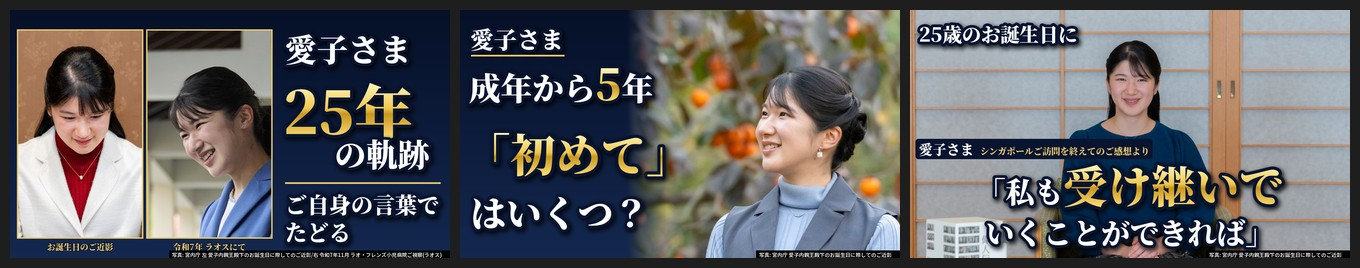
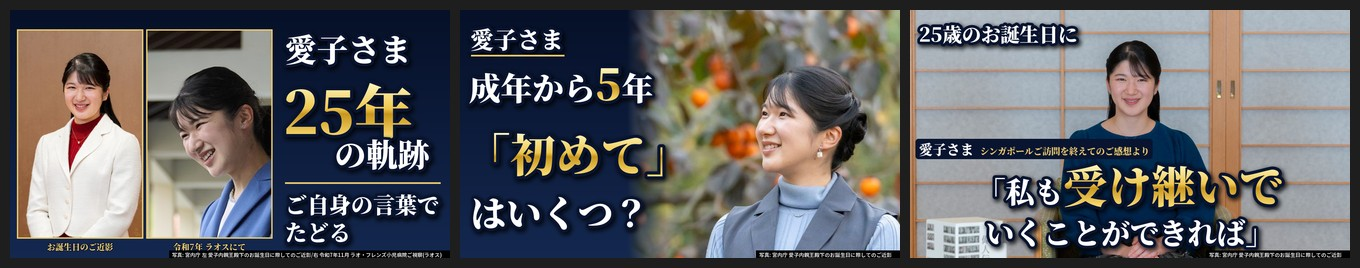
長尺 表紙A 左の写真を正面向きに差し替え
Claude-Session: https://claude.ai/code/session_01BJaPieHBuTRAAQkfULpzEX

Changed region(s): [[0.0, 0.1791, 0.1235, 0.8955]]

diff --git a/projects/KB-20261126-01/thumb/make_thumbs.py b/projects/KB-20261126-01/thumb/make_thumbs.py
@@ -6,9 +6,9 @@ python3 projects/KB-20261126-01/thumb/make_thumbs.py で thumb_A.png・thumb_B.p
 過去の全 thumb.yaml(projects/*)と直近の本編(projects/KB-202611*/scenes.json)を取得元URLで照合し、4枚とも
 表紙0回・本編0回(この長尺の本編でも0回)。皇族方以外の方は切り抜きで外す。献花・慰霊・被災地の写真は使わない。
   A102 令和7年11月 ラオ・フレンズ小児病院ご視察(ラオス。初めての外国公式訪問)。長辺1000px・撮影者表記なし
-  A168/A169/A170 「愛子内親王殿下のお誕生日に際してのご近影」(長辺1800px・撮影者表記なし。年の裏付けがないため年は表示しない=事実確認 M6)
+  A178/A169/A170 「愛子内親王殿下のお誕生日に際してのご近影」(A178 は長辺1000px、A169・A170 は長辺1800px・撮影者表記なし。年の裏付けがないため年は表示しない=事実確認 M6)
 3枚で写真・構図・人物の左右・タイトルの位置を変えた(荒木指示 2026-11-25)。そろえるのは明朝の極太・金の文字・配色(赤なし)・クレジットの置き方だけ。
-  A(題名A 25年の軌跡)= 縦長の写真2枚を額のように左に並べる(左 A168 ご近影・右 A102 ラオス)/文字は右。2か所・20字
+  A(題名A 25年の軌跡)= 縦長の写真2枚を額のように左に並べる(左 A178 ご近影・右 A102 ラオス)/文字は右。2か所・20字
   B(題名B 本命)      = 写真1枚・寄り・人物は右(A169 屋外の柿の木の前・左を向いてほほえまれる)/文字は左。2か所・20字
   C(題名C お言葉)    = 写真1枚いっぱい・引き・人物は中央(A170 御所の障子の前・穏やかな笑顔)/文字は下(引用)と左上。2か所・23字
 """
@@ -65,10 +65,11 @@ def make_A(out):
     CW, CH, Y0 = 360, 600, 60
     X1, X2 = 24, 24 + CW + 16
     im = grad(W, H, [(0, (6, 16, 40)), (1, (20, 40, 80))])
-    # 左の額: A168 ご近影(1800×1200)。お顔(手で測った元の写真のpx)x約775〜1005・y約300〜560。scale 0.75(縮小)
-    b1 = (650, 40, 1130, 840)
-    p1, s1 = card(A + "A168.jpg", b1, (CW, CH))
-    f1 = (X1 + (775 - b1[0]) * s1, Y0 + (300 - b1[1]) * s1, 230 * s1, 260 * s1)
+    # 左の額: A178 ご近影(667×1000・正面を向いた穏やかな笑顔。2026-11-26 荒木指示で下を向いた A168 から差し替え)。
+    # お顔(元の写真のpx・OpenCV の顔検出)x240〜399・y197〜356。切り抜き x100〜544・y50〜790(縦横比 0.6)。scale 約0.81(縮小)
+    b1 = (100, 50, 544, 790)
+    p1, s1 = card(A + "A178.jpg", b1, (CW, CH))
+    f1 = (X1 + (240 - b1[0]) * s1, Y0 + (197 - b1[1]) * s1, 159 * s1, 159 * s1)
     # 右の額: A102 ラオス(1000×666)。愛子さまのお顔 x約569〜637・y約125〜231。
     # 切り抜きは x528〜700・y38〜325 だけ(左の母子・左上の男性・右後ろの随行の方の髪 x725〜・奥の方々 y330〜 を入れない)。scale 約2.1
     b2 = (528, 38, 700, 38 + 287)
